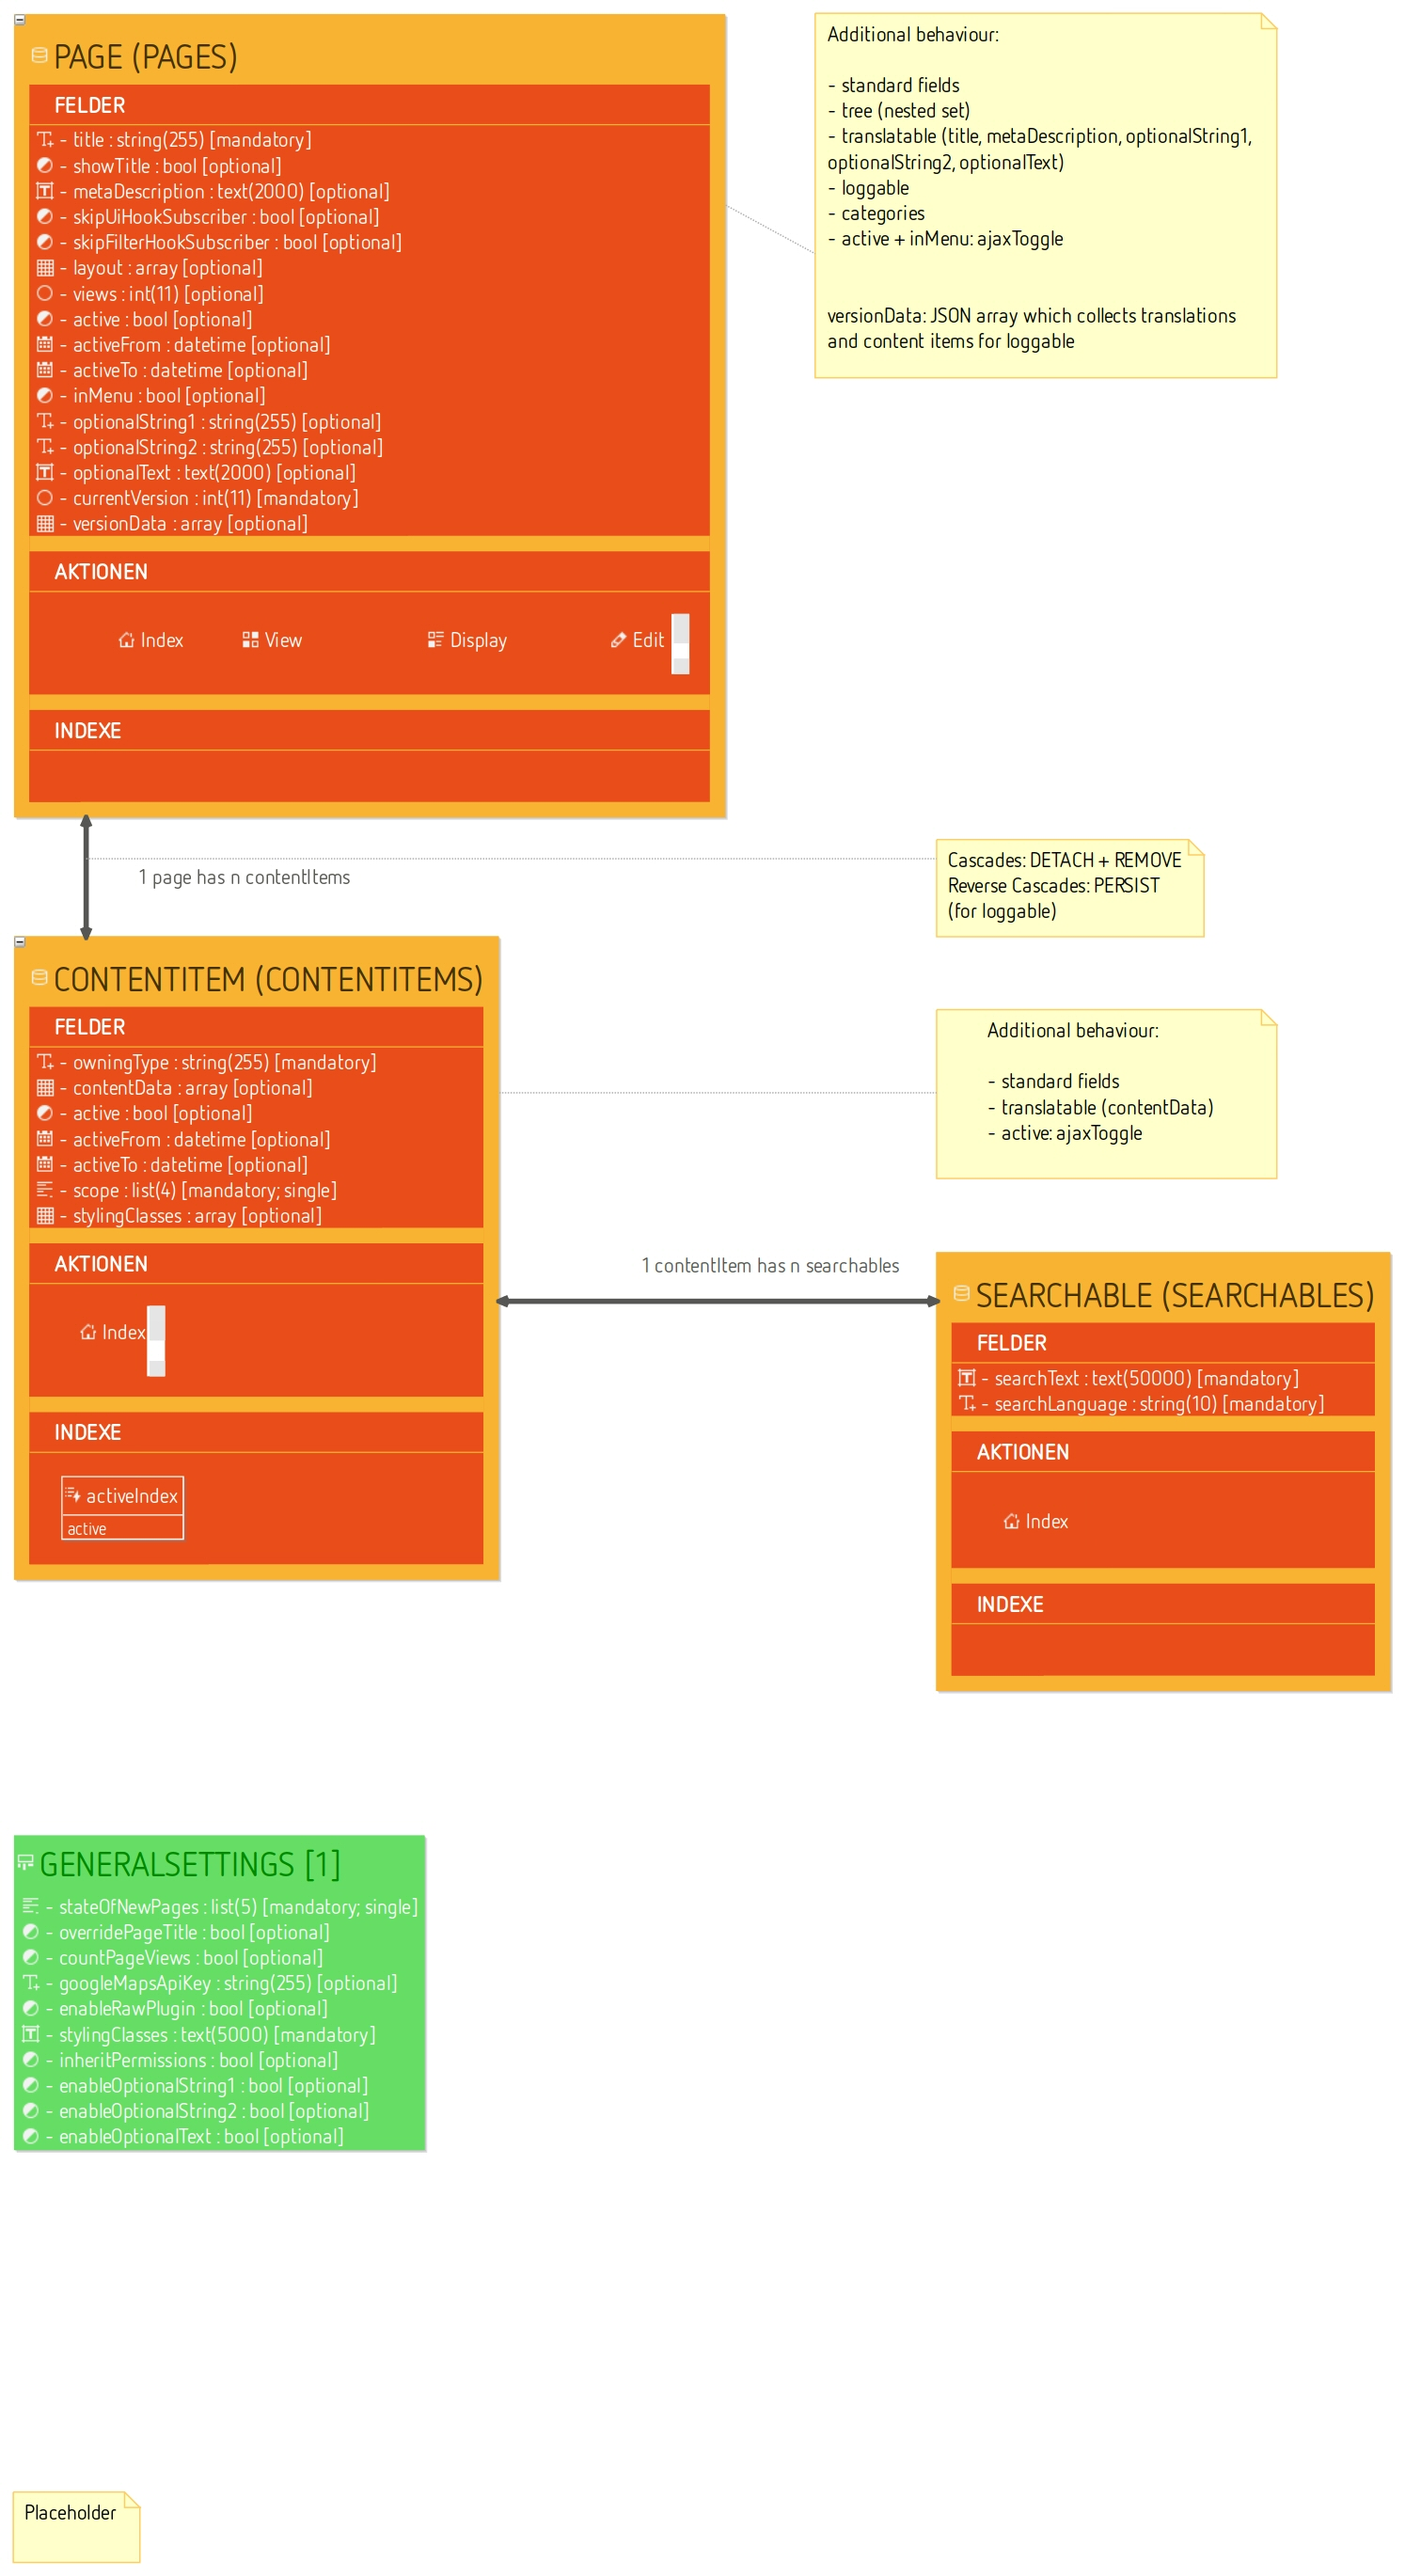
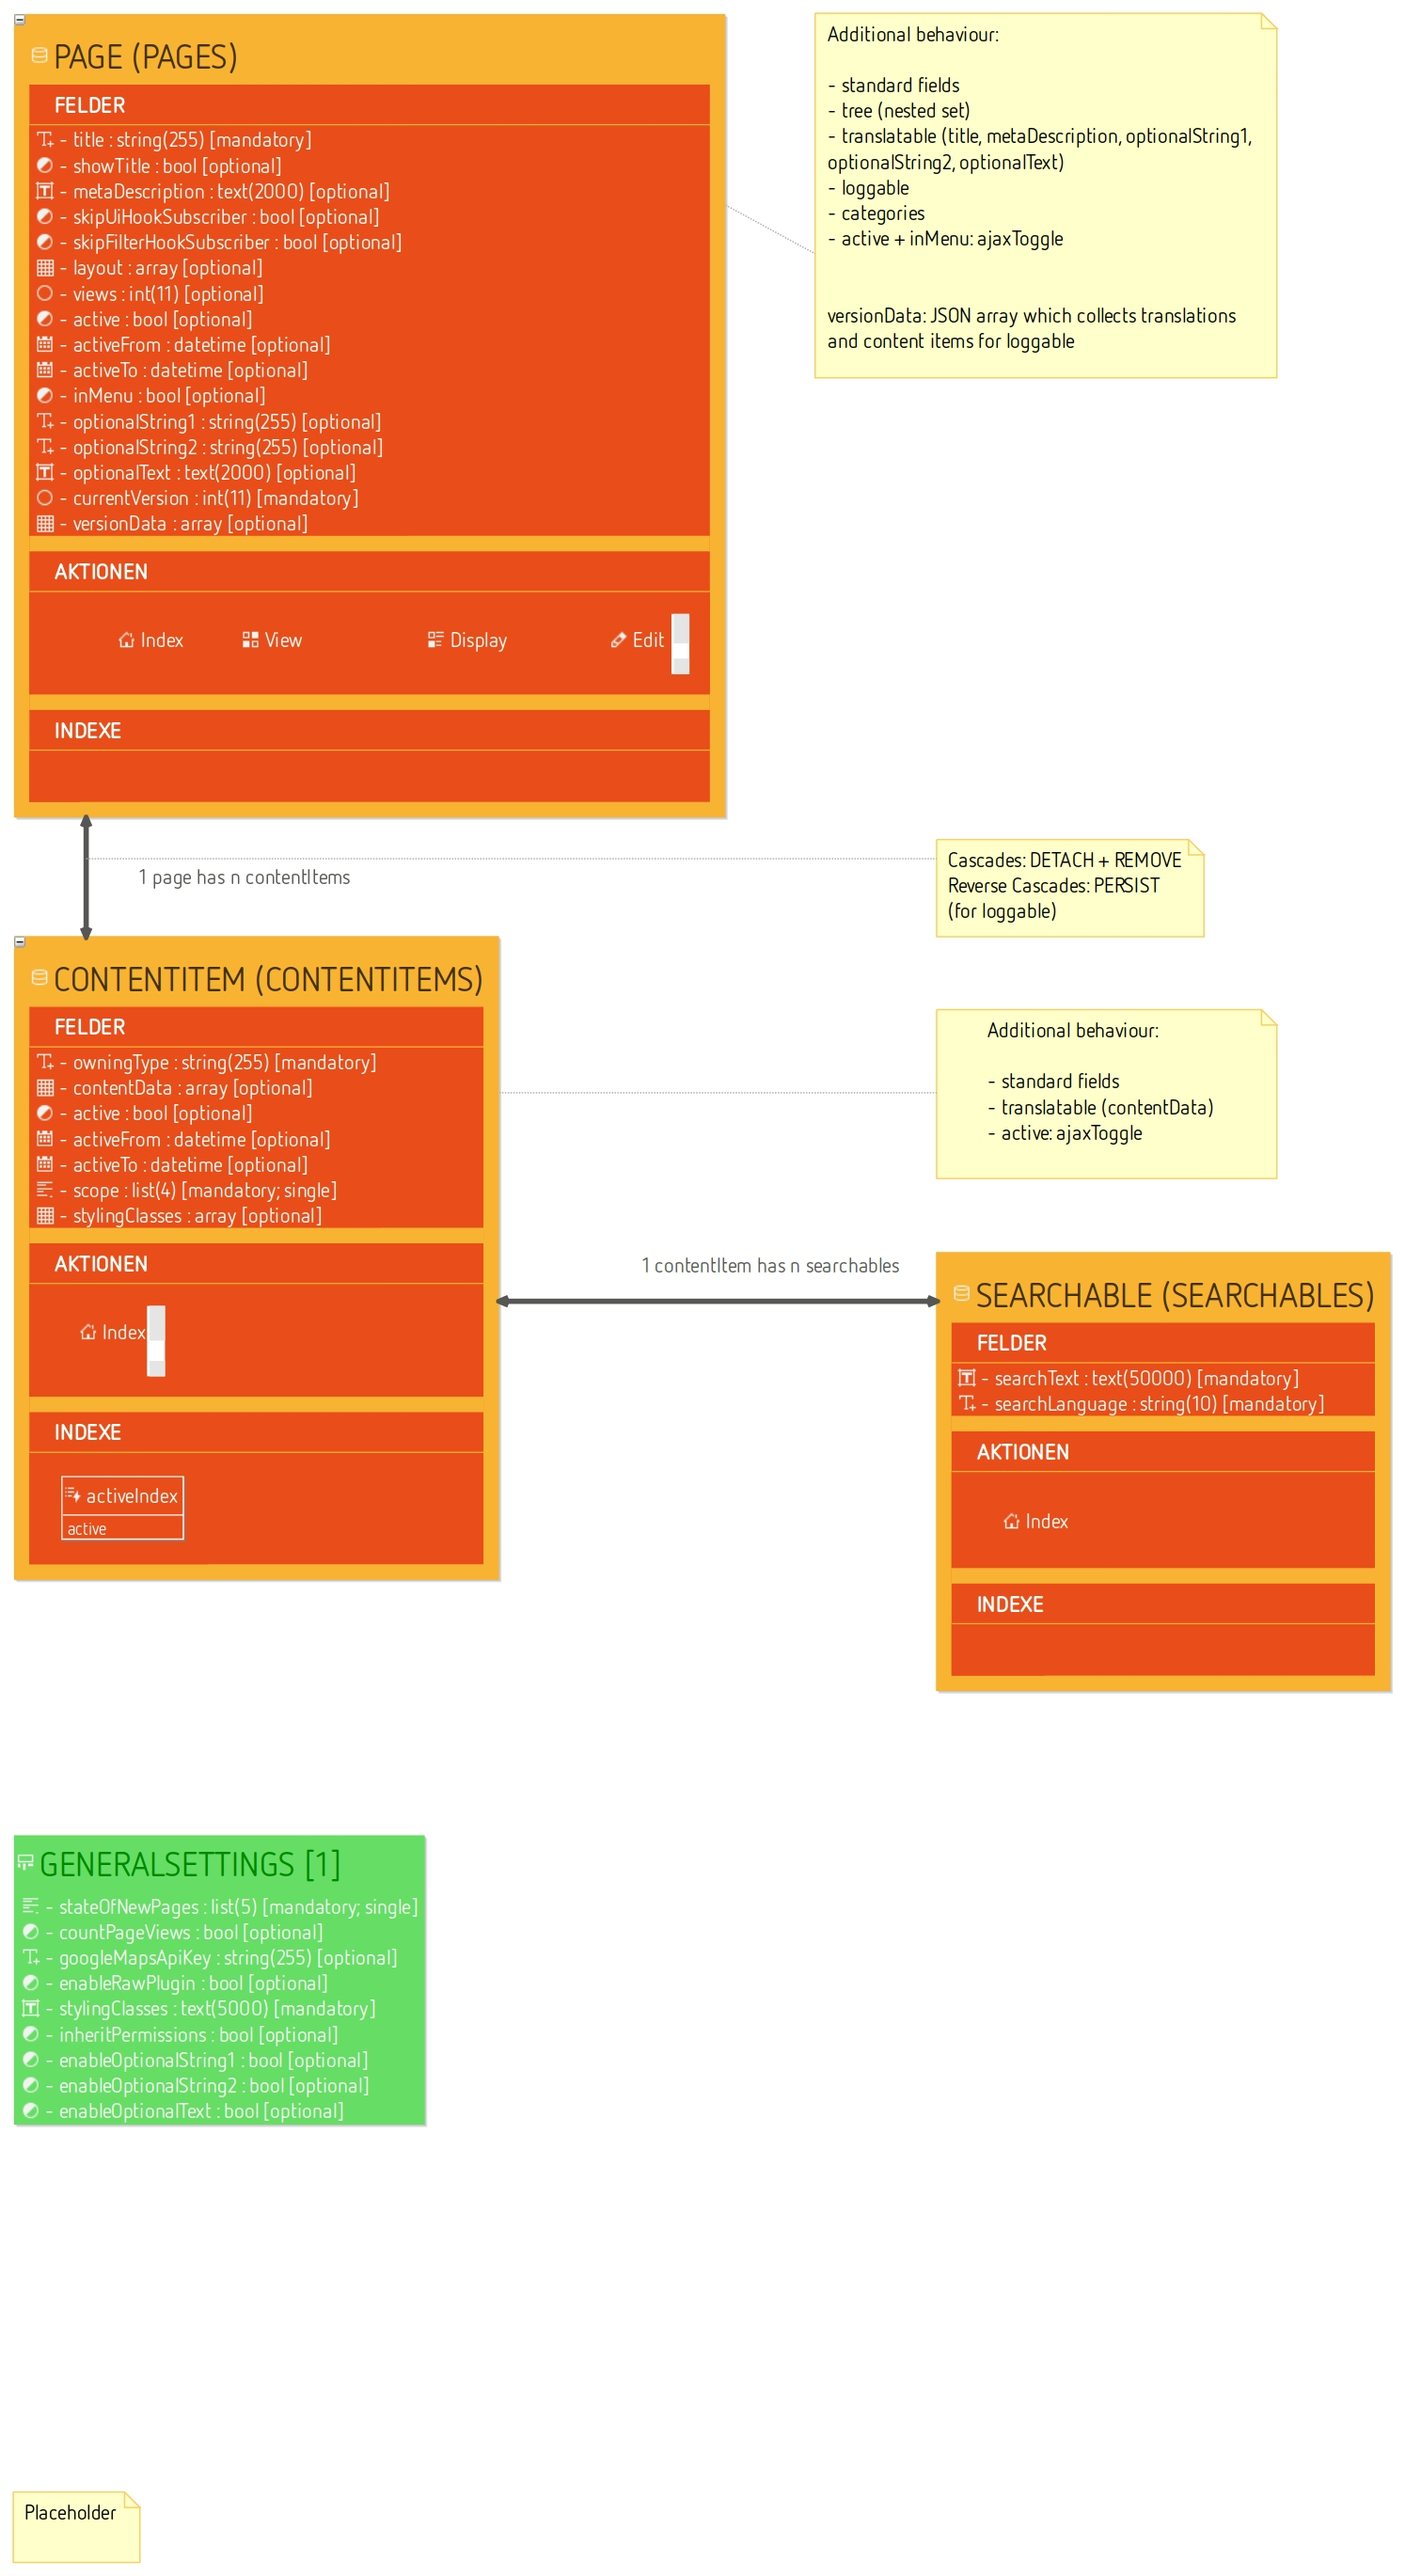
removed obsolete modvar

Changed region(s): [[0.0, 0.7448, 0.3079, 0.8379]]

diff --git a/src/modules/Zikula/ContentModule/Resources/docs/model/structure_de.html b/src/modules/Zikula/ContentModule/Resources/docs/model/structure_de.html
@@ -1552,23 +1552,6 @@
                 </td>
             </tr>
             <tr>
-                <th id="hVariablesGeneralSettingsFieldOverridePageTitle" scope="row" headers="hVariablesGeneralSettingsFieldName">Override page title</th>
-                <td headers="hVariablesGeneralSettingsFieldOverridePageTitle hVariablesGeneralSettingsFieldType">Boolesches</td>
-                <td headers="hVariablesGeneralSettingsFieldOverridePageTitle hVariablesGeneralSettingsFieldMandatory">false</td>
-                <td headers="hVariablesGeneralSettingsFieldOverridePageTitle hVariablesGeneralSettingsFieldDefault">true</td>
-                <td headers="hVariablesGeneralSettingsFieldOverridePageTitle hVariablesGeneralSettingsFieldDisplayType">ALL</td>
-                <td headers="hVariablesGeneralSettingsFieldOverridePageTitle hVariablesGeneralSettingsFieldConstraints">
-                    <ul>
-                    </ul>
-                </td>
-                <td headers="hVariablesGeneralSettingsFieldOverridePageTitle hVariablesGeneralSettingsFieldRemarks">
-                    <ul>
-                        <li>Override page title with the Content page title </li>
-                        <li>Dieses Feld ist nicht eindeutig und erlaubt keine Null-Werte.</li>
-                    </ul>
-                </td>
-            </tr>
-            <tr>
                 <th id="hVariablesGeneralSettingsFieldCountPageViews" scope="row" headers="hVariablesGeneralSettingsFieldName">Count page views</th>
                 <td headers="hVariablesGeneralSettingsFieldCountPageViews hVariablesGeneralSettingsFieldType">Boolesches</td>
                 <td headers="hVariablesGeneralSettingsFieldCountPageViews hVariablesGeneralSettingsFieldMandatory">false</td>

diff --git a/src/modules/Zikula/ContentModule/Resources/docs/model/structure_en.html b/src/modules/Zikula/ContentModule/Resources/docs/model/structure_en.html
@@ -1552,23 +1552,6 @@
                 </td>
             </tr>
             <tr>
-                <th id="hVariablesGeneralSettingsFieldOverridePageTitle" scope="row" headers="hVariablesGeneralSettingsFieldName">Override page title</th>
-                <td headers="hVariablesGeneralSettingsFieldOverridePageTitle hVariablesGeneralSettingsFieldType">Boolean</td>
-                <td headers="hVariablesGeneralSettingsFieldOverridePageTitle hVariablesGeneralSettingsFieldMandatory">false</td>
-                <td headers="hVariablesGeneralSettingsFieldOverridePageTitle hVariablesGeneralSettingsFieldDefault">true</td>
-                <td headers="hVariablesGeneralSettingsFieldOverridePageTitle hVariablesGeneralSettingsFieldDisplayType">ALL</td>
-                <td headers="hVariablesGeneralSettingsFieldOverridePageTitle hVariablesGeneralSettingsFieldConstraints">
-                    <ul>
-                    </ul>
-                </td>
-                <td headers="hVariablesGeneralSettingsFieldOverridePageTitle hVariablesGeneralSettingsFieldRemarks">
-                    <ul>
-                        <li>Override page title with the Content page title </li>
-                        <li>This field is not unique and allows no null values.</li>
-                    </ul>
-                </td>
-            </tr>
-            <tr>
                 <th id="hVariablesGeneralSettingsFieldCountPageViews" scope="row" headers="hVariablesGeneralSettingsFieldName">Count page views</th>
                 <td headers="hVariablesGeneralSettingsFieldCountPageViews hVariablesGeneralSettingsFieldType">Boolean</td>
                 <td headers="hVariablesGeneralSettingsFieldCountPageViews hVariablesGeneralSettingsFieldMandatory">false</td>

diff --git a/src/modules/Zikula/ContentModule/Base/AbstractAppSettings.php b/src/modules/Zikula/ContentModule/Base/AbstractAppSettings.php
@@ -33,15 +33,6 @@ abstract class AbstractAppSettings
     protected $stateOfNewPages = '1';
     
     /**
-     * Override page title with the Content page title
-     *
-     * @Assert\NotNull()
-     * @Assert\Type(type="bool")
-     * @var boolean $overridePageTitle
-     */
-    protected $overridePageTitle = true;
-    
-    /**
      * Page views are only counted when not in preview or edit mode and only when the user has no edit access.
      *
      * @Assert\NotNull()
@@ -195,30 +186,6 @@ abstract class AbstractAppSettings
     {
         if ($this->stateOfNewPages !== $stateOfNewPages) {
             $this->stateOfNewPages = isset($stateOfNewPages) ? $stateOfNewPages : '';
-        }
-    }
-    
-    /**
-     * Returns the override page title.
-     *
-     * @return boolean
-     */
-    public function getOverridePageTitle()
-    {
-        return $this->overridePageTitle;
-    }
-    
-    /**
-     * Sets the override page title.
-     *
-     * @param boolean $overridePageTitle
-     *
-     * @return void
-     */
-    public function setOverridePageTitle($overridePageTitle)
-    {
-        if (boolval($this->overridePageTitle) !== boolval($overridePageTitle)) {
-            $this->overridePageTitle = boolval($overridePageTitle);
         }
     }
     
@@ -545,9 +512,6 @@ abstract class AbstractAppSettings
         if (isset($moduleVars['stateOfNewPages'])) {
             $this->setStateOfNewPages($moduleVars['stateOfNewPages']);
         }
-        if (isset($moduleVars['overridePageTitle'])) {
-            $this->setOverridePageTitle($moduleVars['overridePageTitle']);
-        }
         if (isset($moduleVars['countPageViews'])) {
             $this->setCountPageViews($moduleVars['countPageViews']);
         }
@@ -595,7 +559,6 @@ abstract class AbstractAppSettings
     public function save()
     {
         $this->variableApi->set('ZikulaContentModule', 'stateOfNewPages', $this->getStateOfNewPages());
-        $this->variableApi->set('ZikulaContentModule', 'overridePageTitle', $this->getOverridePageTitle());
         $this->variableApi->set('ZikulaContentModule', 'countPageViews', $this->getCountPageViews());
         $this->variableApi->set('ZikulaContentModule', 'googleMapsApiKey', $this->getGoogleMapsApiKey());
         $this->variableApi->set('ZikulaContentModule', 'enableRawPlugin', $this->getEnableRawPlugin());

diff --git a/src/modules/Zikula/ContentModule/Form/Type/Base/AbstractConfigType.php b/src/modules/Zikula/ContentModule/Form/Type/Base/AbstractConfigType.php
@@ -105,20 +105,6 @@ abstract class AbstractConfigType extends AbstractType
             'expanded' => false
         ]);
         
-        $builder->add('overridePageTitle', CheckboxType::class, [
-            'label' => $this->__('Override page title') . ':',
-            'label_attr' => [
-                'class' => 'tooltips',
-                'title' => $this->__('Override page title with the Content page title')
-            ],
-            'help' => $this->__('Override page title with the Content page title'),
-            'attr' => [
-                'class' => '',
-                'title' => $this->__('The override page title option')
-            ],
-            'required' => false,
-        ]);
-        
         $builder->add('countPageViews', CheckboxType::class, [
             'label' => $this->__('Count page views') . ':',
             'label_attr' => [

diff --git a/src/modules/Zikula/ContentModule/Base/AbstractContentModuleInstaller.php b/src/modules/Zikula/ContentModule/Base/AbstractContentModuleInstaller.php
@@ -45,7 +45,6 @@ abstract class AbstractContentModuleInstaller extends AbstractExtensionInstaller
     
         // set up all our vars with initial values
         $this->setVar('stateOfNewPages', '1');
-        $this->setVar('overridePageTitle', true);
         $this->setVar('countPageViews', false);
         $this->setVar('googleMapsApiKey', '');
         $this->setVar('enableRawPlugin', false);

diff --git a/src/modules/Zikula/ContentModule/Base/bootstrap.php b/src/modules/Zikula/ContentModule/Base/bootstrap.php
@@ -6,7 +6,7 @@
  * @license http://www.gnu.org/licenses/lgpl.html GNU Lesser General Public License
  * @author Axel Guckelsberger <info@ziku.la>.
  * @link https://ziku.la
- * @version Generated by ModuleStudio 1.3.2 (https://modulestudio.de) at Thu Aug 09 13:34:23 CEST 2018.
+ * @version Generated by ModuleStudio 1.3.2 (https://modulestudio.de) at Thu Aug 09 13:46:27 CEST 2018.
  */
 
 /**

diff --git a/src/modules/Zikula/ContentModule/bootstrap.php b/src/modules/Zikula/ContentModule/bootstrap.php
@@ -6,7 +6,7 @@
  * @license http://www.gnu.org/licenses/lgpl.html GNU Lesser General Public License
  * @author Axel Guckelsberger <info@ziku.la>.
  * @link https://ziku.la
- * @version Generated by ModuleStudio 1.3.2 (https://modulestudio.de) at Thu Aug 09 13:34:23 CEST 2018.
+ * @version Generated by ModuleStudio 1.3.2 (https://modulestudio.de) at Thu Aug 09 13:46:27 CEST 2018.
  */
 
 /**
